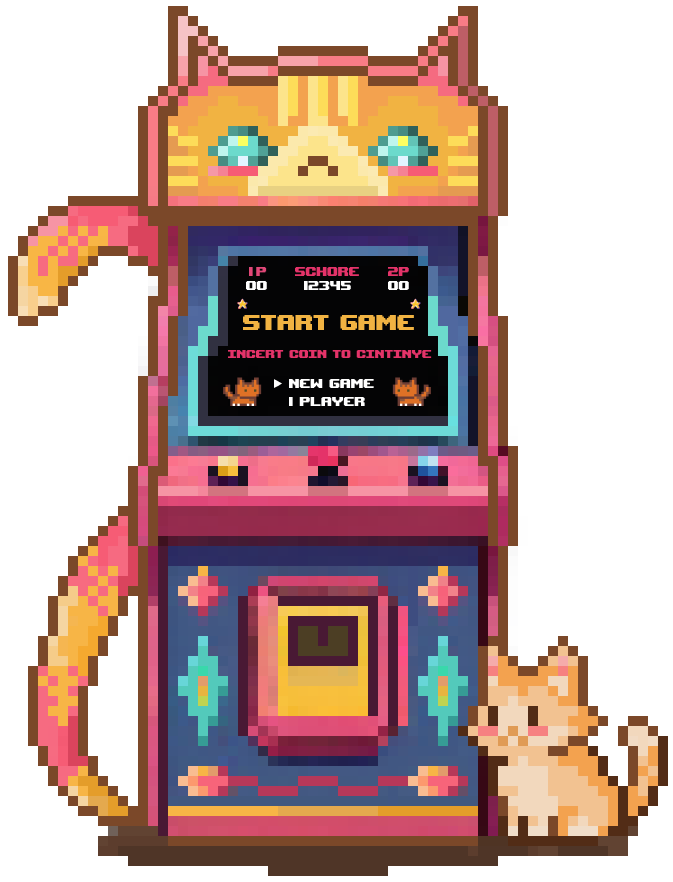
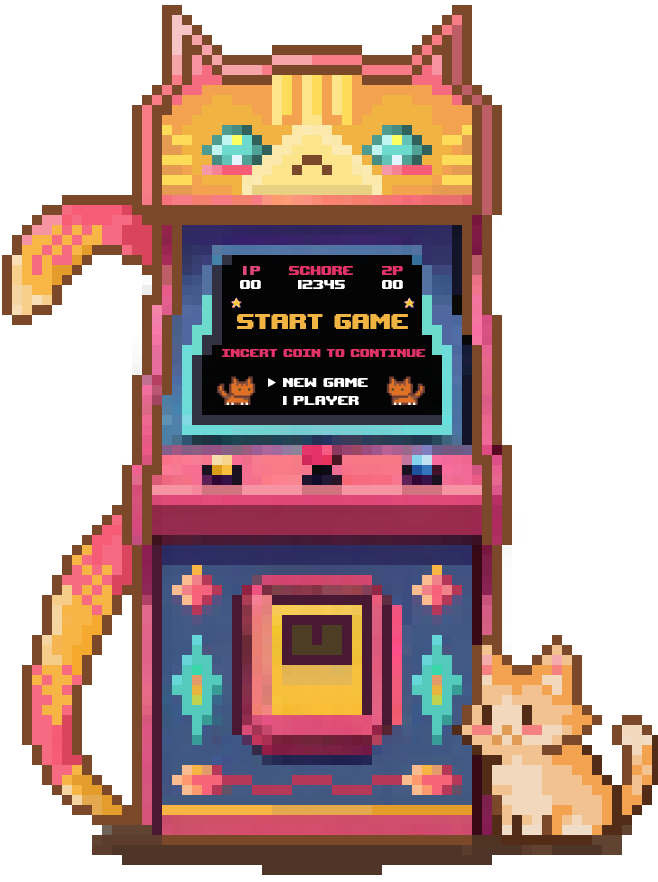
Updates

diff --git a/css/gamelist.css b/css/gamelist.css
@@ -41,7 +41,7 @@ body {
 
 .arcade {
 	position: absolute;
-	top: 8%;
+	top: 4%;
 	left: 32%;
 }
 
@@ -51,7 +51,7 @@ body {
 	left: 45%;
 	width: 130px;
 	height: 180px;
-	background-color: transparent;
+	background-color: white;
 }
 
 #coins {
